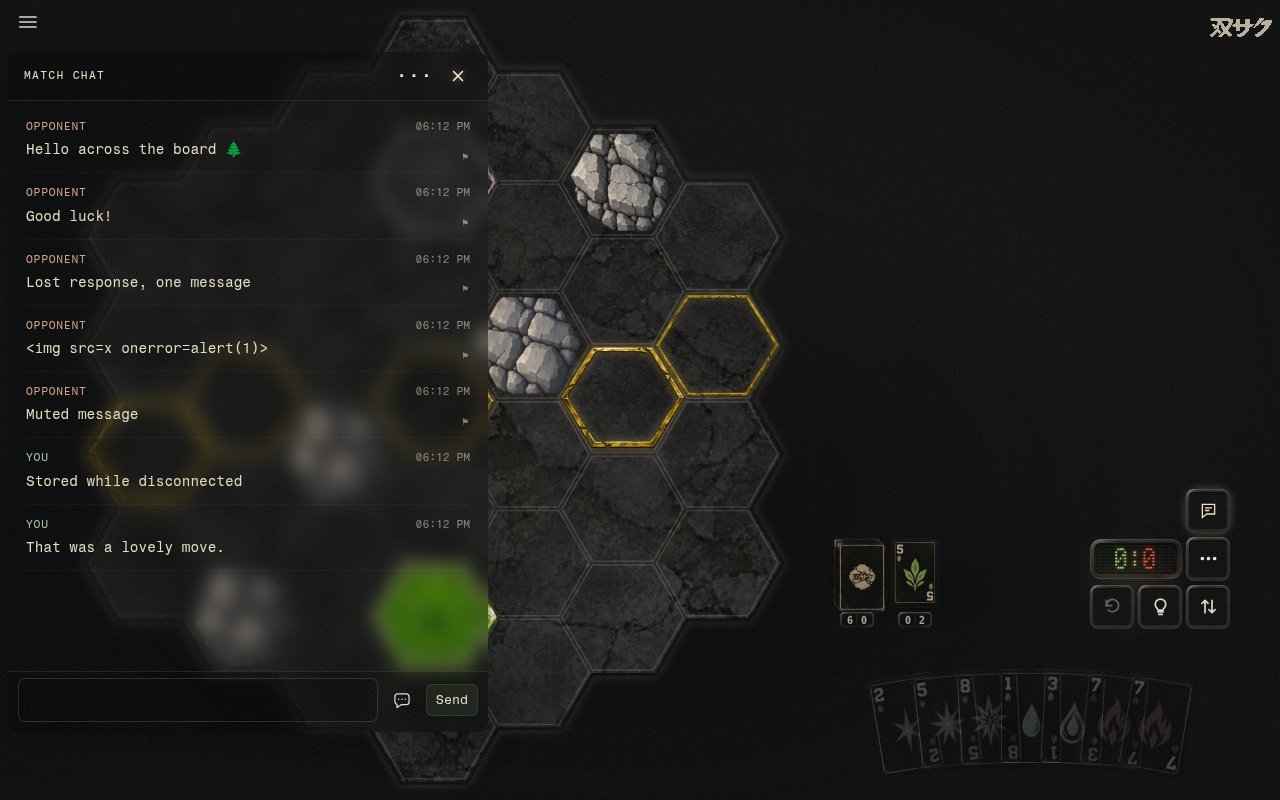
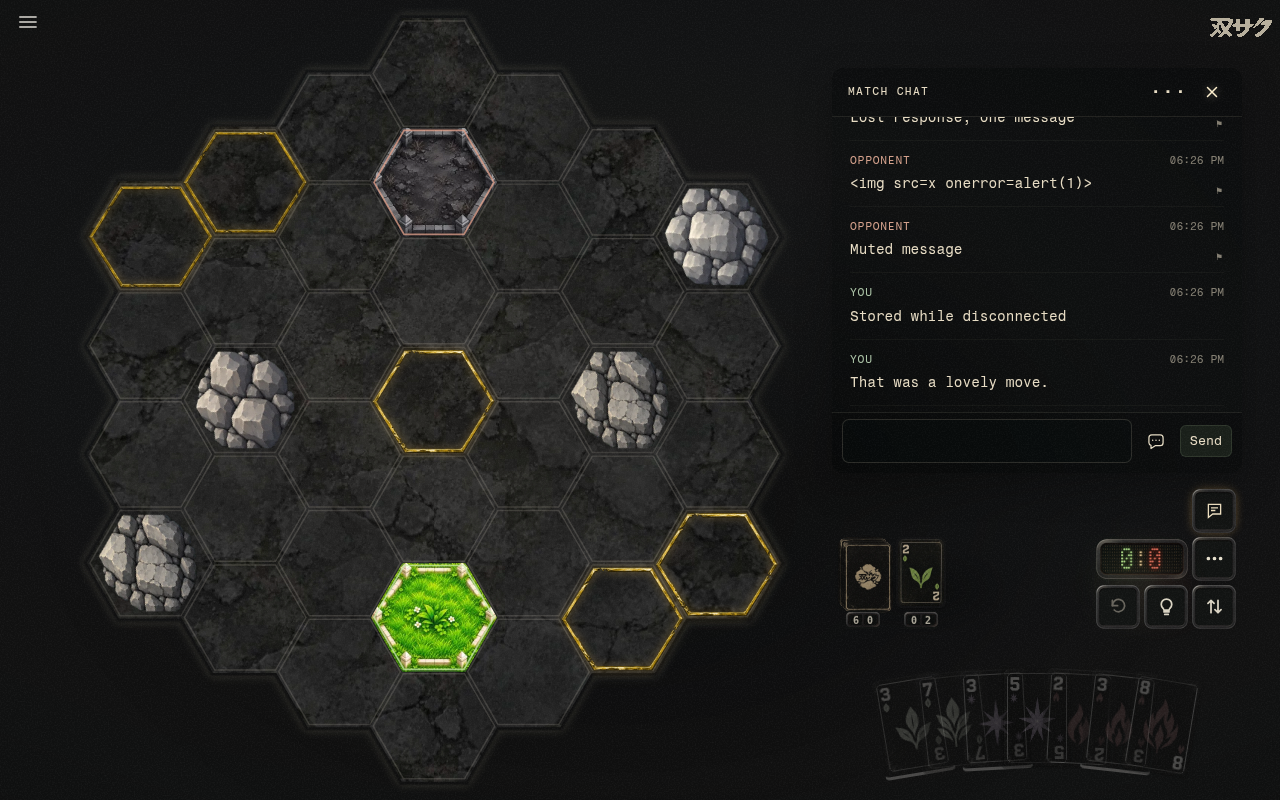
Align desktop match chat above the cockpit column

diff --git a/web/src/online/chat/view.ts b/web/src/online/chat/view.ts
@@ -510,16 +510,78 @@ export const mountMatchChat = (o: {
     const v = window.visualViewport;
     const height = v?.height ?? window.innerHeight;
     const keyboard = height < window.innerHeight * 0.75;
-    const top = keyboard && height < 350 ? 8 : 52;
-    const available = height - top - 12;
+    let top = keyboard && height < 350 ? 8 : 52;
+    let available = height - top - 12;
+    const box = o.host.querySelector<HTMLElement>('#futa04-box');
+    const area = box?.getBoundingClientRect();
+    const key = toggle.getBoundingClientRect();
+    const desktopTop = Math.max(
+      64,
+      o.header.getBoundingClientRect().bottom + 24,
+    );
+    const horizontalRoom = area
+      ? 2 *
+        Math.min(
+          area.left + area.width / 2 - 16,
+          window.innerWidth - 16 - area.left - area.width / 2,
+        )
+      : 0;
+    const docked =
+      !keyboard &&
+      window.innerWidth >= 1000 &&
+      document.documentElement.dataset.layout === 'side' &&
+      area &&
+      area.width >= 280 &&
+      horizontalRoom >= 260 &&
+      key.top - desktopTop - 16 >= 240;
+    root.dataset.desktopDocked = String(Boolean(docked));
+    if (docked && area) {
+      const center = area.left + area.width / 2;
+      const width = Math.min(480, area.width, horizontalRoom);
+      const left = center - width / 2;
+      top = desktopTop;
+      available = key.top - top - 16;
+      root.style.setProperty('--chat-left', `${left}px`);
+      root.style.setProperty('--chat-width', `${width}px`);
+    }
     root.dataset.keyboard = String(keyboard);
     root.style.setProperty('--chat-top', `${(v?.offsetTop ?? 0) + top}px`);
     root.style.setProperty('--chat-height', `${Math.max(120, available)}px`);
     if (followLatest && ctl.state().open) log.scrollTop = log.scrollHeight;
   };
+  let layoutFrame: number | null = null;
+  const scheduleViewport = () => {
+    if (layoutFrame !== null) cancelAnimationFrame(layoutFrame);
+    layoutFrame = requestAnimationFrame(() => {
+      layoutFrame = null;
+      viewport();
+    });
+  };
+  let layoutSignature = '';
+  const placementChanges = new MutationObserver(() => {
+    const page = document.documentElement;
+    const signature = [
+      page.dataset.layout,
+      page.dataset.thumb,
+      ...['--side-dock-shift', '--dock-w', '--dock-h'].map((k) =>
+        page.style.getPropertyValue(k),
+      ),
+    ].join('|');
+    if (signature !== layoutSignature) {
+      layoutSignature = signature;
+      scheduleViewport();
+    }
+  });
+  placementChanges.observe(document.documentElement, {
+    attributes: true,
+    attributeFilter: ['style', 'data-layout', 'data-thumb'],
+  });
+  const cockpitLayout = new ResizeObserver(scheduleViewport);
+  const box = o.host.querySelector<HTMLElement>('#futa04-box');
+  if (box) cockpitLayout.observe(box);
   window.visualViewport?.addEventListener('resize', viewport);
   window.visualViewport?.addEventListener('scroll', viewport);
-  window.addEventListener('resize', viewport);
+  window.addEventListener('resize', scheduleViewport);
   viewport();
   ctl.start();
   return {
@@ -534,7 +596,10 @@ export const mountMatchChat = (o: {
       document.removeEventListener('visibilitychange', resume);
       window.removeEventListener('online', resume);
       window.removeEventListener('focus', resume);
-      window.removeEventListener('resize', viewport);
+      window.removeEventListener('resize', scheduleViewport);
+      cockpitLayout.disconnect();
+      placementChanges.disconnect();
+      if (layoutFrame !== null) cancelAnimationFrame(layoutFrame);
       window.visualViewport?.removeEventListener('resize', viewport);
       window.visualViewport?.removeEventListener('scroll', viewport);
       root.remove();

diff --git a/web/e2e/match-chat.ts b/web/e2e/match-chat.ts
@@ -581,7 +581,10 @@ try {
     [360, 640],
     [390, 844],
     [844, 390],
+    [1024, 768],
     [1280, 800],
+    [1440, 900],
+    [1920, 1080],
   ]) {
     await visual.setViewportSize({ width: width!, height: height! });
     if (
@@ -610,9 +613,22 @@ try {
           '.match-chat-panel button',
         ),
       ].filter((b) => b.offsetWidth && b.offsetHeight);
+      const docked =
+        document.querySelector<HTMLElement>('.match-chat')!.dataset
+          .desktopDocked === 'true';
+      const box = document
+        .querySelector('#futa04-box')!
+        .getBoundingClientRect();
       return {
+        desktopAligned:
+          innerWidth < 1000 ||
+          document.documentElement.dataset.layout !== 'side' ||
+          (docked &&
+            Math.abs((p.left + p.right - box.left - box.right) / 2) < 1 &&
+            Math.abs(t.top - p.bottom - 16) < 1 &&
+            p.width <= box.width + 1),
         reading:
-          p.height >= Math.min(500, innerHeight - 80) &&
+          p.height >= (docked ? 240 : Math.min(500, innerHeight - 80)) &&
           parseFloat(
             getComputedStyle(document.querySelector('.match-chat-text')!)
               .fontSize,
@@ -647,9 +663,35 @@ try {
           .backgroundColor,
       };
     });
+    if (Object.values(geometry).some((v) => v === false)) {
+      console.log('CHAT_GEOMETRY', width, height, geometry);
+      await visual.screenshot({
+        path: `${out}/alignment-failure-${width}.png`,
+      });
+      console.log(
+        await visual.evaluate(() => ({
+          layout: document.documentElement.dataset.layout,
+          box: document
+            .querySelector('#futa04-box')!
+            .getBoundingClientRect()
+            .toJSON(),
+          panel: document
+            .querySelector('.match-chat-panel')!
+            .getBoundingClientRect()
+            .toJSON(),
+          key: document
+            .querySelector('#match-chat-toggle')!
+            .getBoundingClientRect()
+            .toJSON(),
+          vars: document.querySelector<HTMLElement>('.match-chat')!.style
+            .cssText,
+        })),
+      );
+    }
     check(
       `${width}×${height}: expanded reading panel, compact message text, hidden phrases and accessible controls`,
-      geometry.frameless &&
+      geometry.desktopAligned &&
+        geometry.frameless &&
         geometry.reading &&
         geometry.phrasesHidden &&
         geometry.bounds &&

diff --git a/web/src/online/chat/style.ts b/web/src/online/chat/style.ts
@@ -11,6 +11,7 @@ export const CHAT_CSS = `
 #match-chat-toggle svg {width:19px;height:19px;stroke:currentColor;stroke-width:1.5;fill:none;}
 .match-chat-dot {position:absolute;right:5px;top:6px;width:6px;height:6px;border-radius:50%;background:#e8ddc5;box-shadow:0 0 0 3px rgba(8,10,10,.5);}
 .match-chat-panel {position:fixed;z-index:65;top:var(--chat-top,56px);left:max(8px,env(safe-area-inset-left));width:min(480px,calc(100vw - 16px - env(safe-area-inset-right) - env(safe-area-inset-left)));height:min(680px,var(--chat-height,calc(100dvh - 72px)));box-sizing:border-box;display:flex;flex-direction:column;overflow:hidden;background:var(--dark-glass,rgba(8,10,10,.42));-webkit-backdrop-filter:var(--dark-glass-blur,blur(9px) saturate(1.05));backdrop-filter:var(--dark-glass-blur,blur(9px) saturate(1.05));border:0;border-radius:12px;box-shadow:0 12px 36px #0004;transform-origin:bottom right;}
+.match-chat[data-desktop-docked='true'] .match-chat-panel{left:var(--chat-left);width:var(--chat-width);height:var(--chat-height);}
 .match-chat-panel[hidden], .match-chat [hidden], #match-chat-toggle[hidden] {display:none!important;}
 .match-chat-head {display:flex;align-items:center;justify-content:space-between;gap:8px;padding:2px 8px 2px 16px;flex:none;border-bottom:1px solid #e8ddc51a;background:#080a0a38;}
 .match-chat-head-keys{display:flex;flex:none;}

diff --git a/docs/MATCH-CHAT.md b/docs/MATCH-CHAT.md
@@ -274,3 +274,21 @@ passed with local Postgres, including a blank composer with its screen-reader la
 at five viewport sizes. Hosted Supabase remains untested and no deployment was performed.
 The existing live-duel, reconnect and autoplay regression suites also passed: 49 checks. TypeScript
 checks and `git diff --check` passed; the browser suite built the production futa05 client.
+
+
+## Desktop cockpit column
+
+Desktop chat now fills the clear space above the cockpit, centred on the actual `#futa04-box`
+column (up to 480px wide), with 16px between its lower edge and the chat key. It keeps a calm header
+margin and narrows symmetrically near the viewport edge. The board and cockpit are not resized.
+Narrow/mobile layouts keep their existing overlay. Desktop docking applies only when the side
+layout has useful room for a readable panel.
+
+A ResizeObserver and a filtered inline-layout signature follow the existing cockpit measurements
+and `--side-dock-shift`; they schedule a single frame on layout changes, never a polling/render
+loop. Observers and scheduled frames are removed on teardown. This also handles the game's deferred
+centering pass after a window resize without editing another agent's layout implementation.
+
+Verification: 49 browser checks passed, including 1024×768, 1280×800, 1440×900 and 1920×1080 desktop
+alignment, column centering, key clearance, mobile layouts, message delivery, motion and cleanup.
+TypeScript checks passed. Updated desktop screenshot reflects the new cockpit-column placement.
